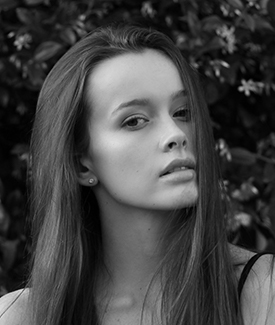
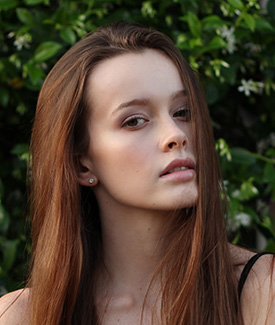
did something

diff --git a/css/style.css b/css/style.css
@@ -294,7 +294,12 @@ section {
   .reviews__item:hover .reviews__img {
     -webkit-transform: scale(1.1);
     -ms-transform: scale(1.1);
-    transform: scale(1.1); }
+    transform: scale(1.1);
+    -webkit-filter: grayscale(0);
+    filter: grayscale(0);
+    -webkit-transition: 1s;
+    -o-transition: 1s;
+    transition: 1s; }
   .reviews__item:hover .reviews__box {
     visibility: visible;
     opacity: 1;
@@ -303,15 +308,17 @@ section {
     transition: opacity 1s; }
 
 .reviews__img {
-  min-height: 325px;
-  height: 50vh;
+  min-width: 269px;
+  height: 100%;
   width: 100%;
   -webkit-transition-timing-function: ease-out;
   -o-transition-timing-function: ease-out;
   transition-timing-function: ease-out;
   -webkit-transition: 1s;
   -o-transition: 1s;
-  transition: 1s; }
+  transition: 1s;
+  -webkit-filter: grayscale(1);
+  filter: grayscale(1); }
 
 .reviews__box {
   position: absolute;

diff --git a/css/sections/reviews.scss b/css/sections/reviews.scss
@@ -18,7 +18,8 @@
     overflow: hidden;
     &:hover .reviews__img {
         transform: scale(1.1);
-        
+        filter: grayscale(0);
+        transition: 1s;
     }
     &:hover .reviews__box {
         visibility: visible;
@@ -28,11 +29,12 @@
 }
 
 .reviews__img {
-    min-height: 325px;
-    height: 50vh;
+    min-width: 269px;
+    height: 100%;
     width: 100%;
     transition-timing-function: ease-out;
     transition: 1s;
+    filter: grayscale(1);
 }
 
 .reviews__box {
